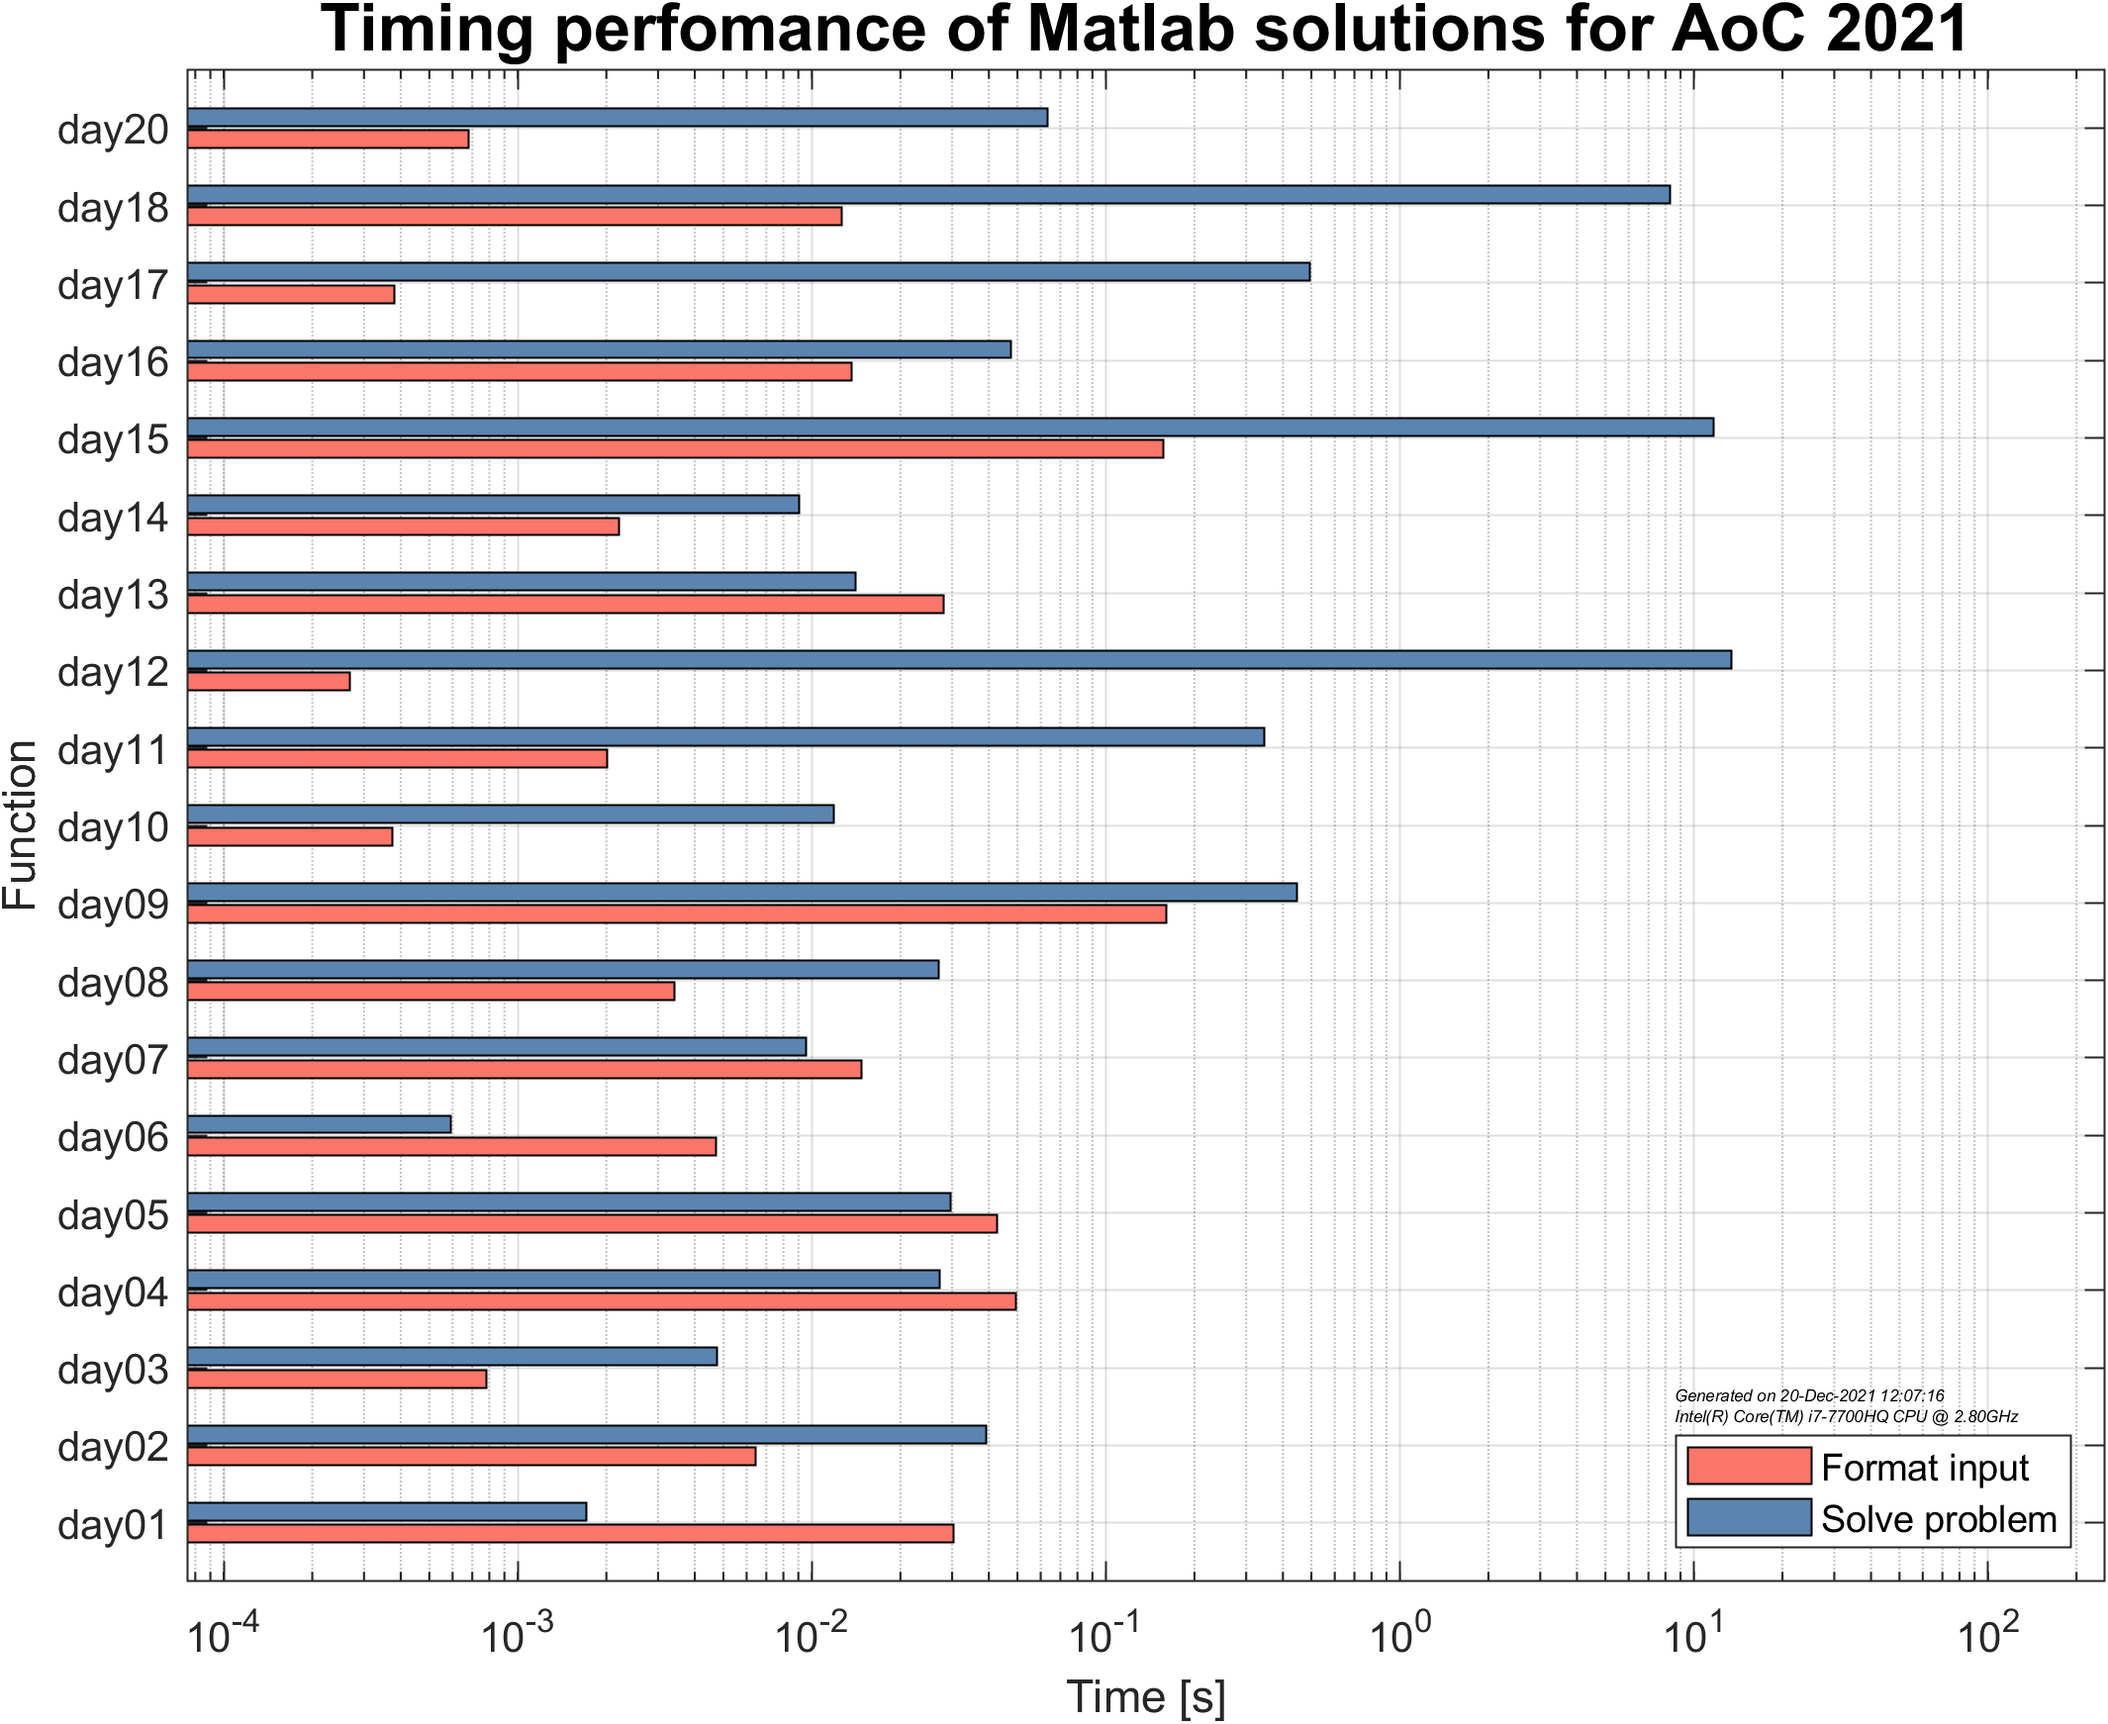
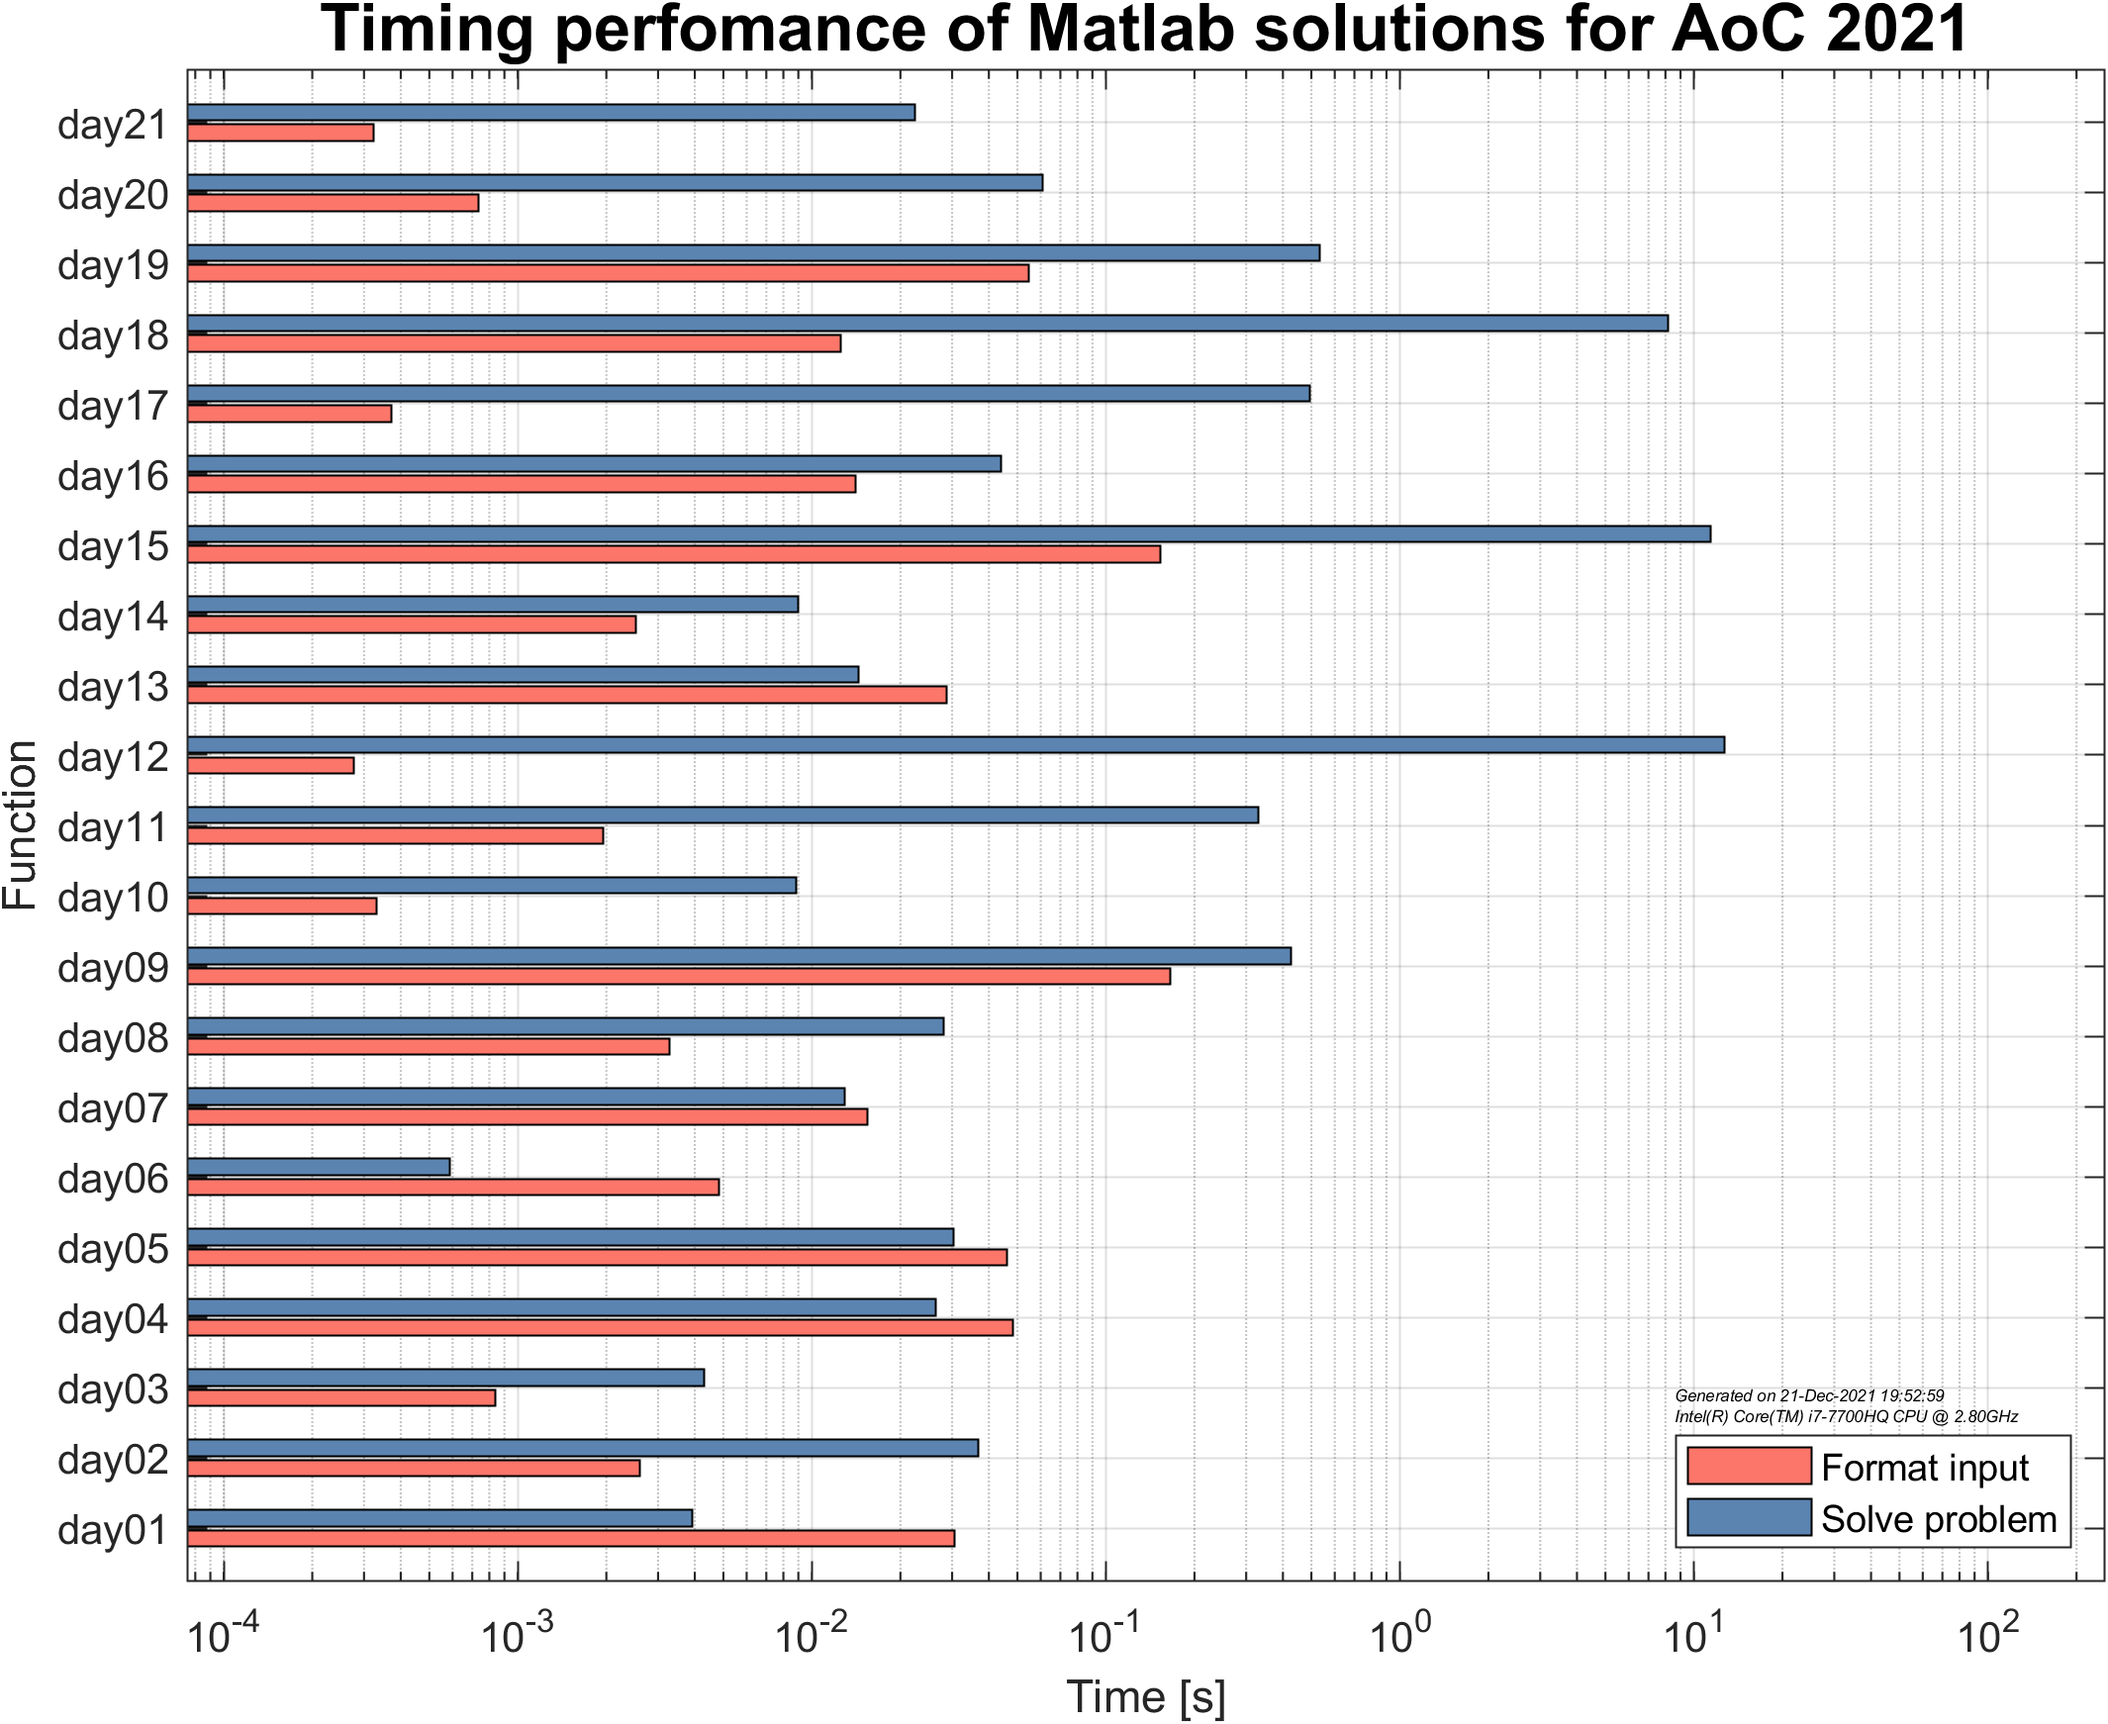
next days

Changed region(s): [[0.031, 0.062, 0.8366, 0.899]]

diff --git a/solutions/day19.m b/solutions/day19.m
@@ -1,0 +1,115 @@
+function [t,solution1,solution2] = day19(verbose)
+%DAY19  Solve day 19 problem of AoC 2021
+% Author : L. Chauvet
+% Date   : 2021/12/21
+% 
+% --- Day 19: Beacon Scanner ---
+% Problem URL : https://adventofcode.com/2021/day/19
+%
+arguments
+    verbose (1,1) double = 1
+end
+%% GET INPUT
+d = 19;
+input_data_str = fetch_input(d);
+tic;
+[scanner_reports] = format_data(input_data_str);
+t_format = toc;
+
+%% SOLVING
+tic;
+rotation_mats = rotation_mats_3D();
+nrotation_mats = length(rotation_mats);
+nscanner = size(scanner_reports,1);
+
+scanner_positions = [0 0 0];
+fixed_beacon_positions = scanner_reports{1};
+not_processed_scanners = 2:nscanner;
+kscanner = 1;
+while ~isempty(not_processed_scanners)
+    kscanner = wrap_to_n(kscanner,length(not_processed_scanners));
+
+    beacon_positions_to_process = scanner_reports{not_processed_scanners(kscanner)};
+    
+    for krot = 1:nrotation_mats
+        rotation_mat = rotation_mats{krot};
+        rotated_beacon_positions_to_process = beacon_positions_to_process * rotation_mat;
+        pairwise_distances = euclidean_dist(fixed_beacon_positions, rotated_beacon_positions_to_process);
+        most_common_pairwise_dist = mode(pairwise_distances,'all');
+        [common_row_ind,common_col_ind] = find(pairwise_distances == most_common_pairwise_dist,12);
+        if length(common_row_ind) == 12
+
+            kscanner_position = fixed_beacon_positions(common_row_ind(1),:) - rotated_beacon_positions_to_process(common_col_ind(1),:);
+            
+            fixed_beacon_positions = [fixed_beacon_positions; rotated_beacon_positions_to_process + kscanner_position];
+            fixed_beacon_positions = unique(fixed_beacon_positions,'rows');
+            
+            scanner_positions = [scanner_positions; kscanner_position];
+            not_processed_scanners(kscanner) = [];
+            kscanner = kscanner-1;
+            break
+        end    
+    end  
+    kscanner = kscanner+1;
+end
+
+% Solution 1
+solution1 = length(fixed_beacon_positions);
+
+% Solution 2
+solution2 = max(manhatta_dist(scanner_positions,scanner_positions),[],'all');
+
+t_end = toc;
+%% LOGS
+if verbose
+    print_solution(d,double(solution1),double(solution2));
+    print_elapsed_time(t_format,t_end);
+end
+
+t = [t_format;t_end];
+
+if nargout == 0
+    clear solution1 solution2 t
+end
+%% HELPER FUNCTIONS
+function [scanner_reports] = format_data(data_str)
+    data = splitlines(data_str);
+    data = data(~cellfun(@isempty,data));
+    reports_start = find(cellfun(@(x) contains(x,'scanner'),data))+1;
+
+    nreport = length(reports_start);
+    scanner_reports = cell(nreport,1);
+    for kreport = 1:nreport
+        if kreport == nreport
+            report = data(reports_start(kreport):end);
+        else
+            report = data(reports_start(kreport):reports_start(kreport+1)-2);
+        end
+        scanner_reports{kreport} = str2double(split(report,','));
+    end
+end
+
+function [wrap_n] = wrap_to_n(x,n)
+    % Keep x in range [1:n]
+    wrap_n = (1 + mod(x-1, n));
+end
+
+function [dist] = euclidean_dist(x, y)
+   % ||x-y||^2 = ||x||^2 + ||y||^2 - 2*x.y
+   dist = bsxfun(@plus,sum(x.^2,2),sum(y.^2,2)') - 2*(x*y');
+end
+
+function [dist] = manhatta_dist(x, y)
+   dist = sum(abs(bsxfun(@minus,permute(x,[1 3 2]),permute(y,[3 1 2]))),3);
+end
+
+function M = rotation_mats_3D()
+    Mx = [1 0 0;0 1 0;0 0 1;1 0 0;0 0 -1;0 1 0;1 0 0;0 -1 0;0 0 -1;1 0 0;0 0 1;0 -1 0;0 -1 0;1 0 0;0 0 1;0 0 1;1 0 0;0 1 0;0 1 0;1 0 0;0 0 -1;0 0 -1;1 0 0;0 -1 0;-1 0 0;0 -1 0;0 0 1;-1 0 0;0 0 -1;0 -1 0;-1 0 0;0 1 0;0 0 -1;-1 0 0;0 0 1;0 1 0;0 1 0;-1 0 0;0 0 1;0 0 1;-1 0 0;0 -1 0;0 -1 0;-1 0 0;0 0 -1;0 0 -1;-1 0 0;0 1 0;0 0 -1;0 1 0;1 0 0;0 1 0;0 0 1;1 0 0;0 0 1;0 -1 0;1 0 0;0 -1 0;0 0 -1;1 0 0;0 0 -1;0 -1 0;-1 0 0;0 -1 0;0 0 1;-1 0 0;0 0 1;0 1 0;-1 0 0;0 1 0;0 0 -1;-1 0 0];
+    nrotation = size(Mx,1);
+    M = cell(1,nrotation/3);
+    for krotation = 1:nrotation/3
+        M{krotation} = Mx(3*(krotation-1)+ 1 : 3*krotation,:);
+    end
+end
+
+end

diff --git a/solutions/day21.m b/solutions/day21.m
@@ -1,0 +1,97 @@
+function [t,solution1,solution2] = day21(verbose)
+%DAY21  Solve day 21 problem of AoC 2021
+% Author : L. Chauvet
+% Date   : 2021/12/21
+% 
+% --- Day 21: Dirac Dice ---
+% Problem URL : https://adventofcode.com/2021/day/21
+%
+arguments
+    verbose (1,1) double = 1
+end
+%% GET INPUT
+d = 21;
+input_data_str = fetch_input(d);
+tic;
+[positions] = format_data(input_data_str);
+t_format = toc;
+
+%% SOLVING
+tic;
+nside = 100;
+deterministic_dice = 1:nside;
+kstep = 0;
+scores = [0 0];
+win_score = 1000;
+positions1 = positions;
+
+% Solution 1
+while all(scores<win_score)
+    kstep = kstep+1;
+    player = wrap_to_n(kstep,2);
+    positions1(player) = wrap_to_n(positions1(player) + sum(deterministic_dice(wrap_to_n((kstep-1)*3+1:(kstep)*3,nside))),10);
+    scores(player) = scores(player)+positions1(player);
+end
+solution1 = 3*kstep*min(scores);
+
+% Solution 2
+universe = zeros([10,10,21,21]);
+universe(positions(1),positions(2),1,1) = 1;
+
+dice_rolls_possibilites = (1:3) + (1:3)' + permute(1:3,[1,3,2]);
+[dice_rolls, ~, ic] = unique(dice_rolls_possibilites);
+p = accumarray(ic, 1);
+nwon = [0, 0];
+kstep = 0;
+
+while any(universe ~= 0, 'all')
+  kstep = kstep+1;
+  player = wrap_to_n(kstep,2);
+
+  next_universe = zeros(size(universe));
+  for j = 1:numel(p)
+    next_universe = next_universe + p(j) * circshift(universe, dice_rolls(j), player);
+  end
+
+  if player == 2
+    next_universe = permute(next_universe, [2,1,4,3]);
+  end
+
+  for j = 1:10
+    nwon(player) = nwon(player) + sum(next_universe(j,:,end-j+1:end,:), 'all');
+    next_universe(j,:,1+j:end,:) = next_universe(j,:,1:end-j,:);
+    next_universe(j,:,1:j,:) = 0;
+  end
+
+  if player == 2
+    next_universe = permute(next_universe, [2,1,4,3]);
+  end
+
+  universe = next_universe;
+end
+solution2 = max(nwon);
+
+t_end = toc;
+%% LOGS
+if verbose
+    print_solution(d,double(solution1),double(solution2));
+    print_elapsed_time(t_format,t_end);
+end
+
+t = [t_format;t_end];
+
+if nargout == 0
+    clear solution1 solution2 t
+end
+%% HELPER FUNCTIONS
+function [input_data] = format_data(data_str)
+    data = split(data_str);
+    input_data = str2double(data([5 10]));
+end
+
+function [wrap_n] = wrap_to_n(x,n)
+    % Keep x in range [1:n]
+    wrap_n = (1 + mod(x-1, n));
+end
+
+end

diff --git a/README.md b/README.md
@@ -1,5 +1,5 @@
-# Matlab-AoC-2021
-Examples of Matlab solution for the Advent of Code 2021 edition. 
+# Matlab-AoC-2021 🎄 [Advent of Code 2021](https://adventofcode.com/2021)
+Examples of Matlab solutions for the Advent of Code 2021 edition. 
 
 ## Timing performances
 ![Timing performances](figures/performance.png)
